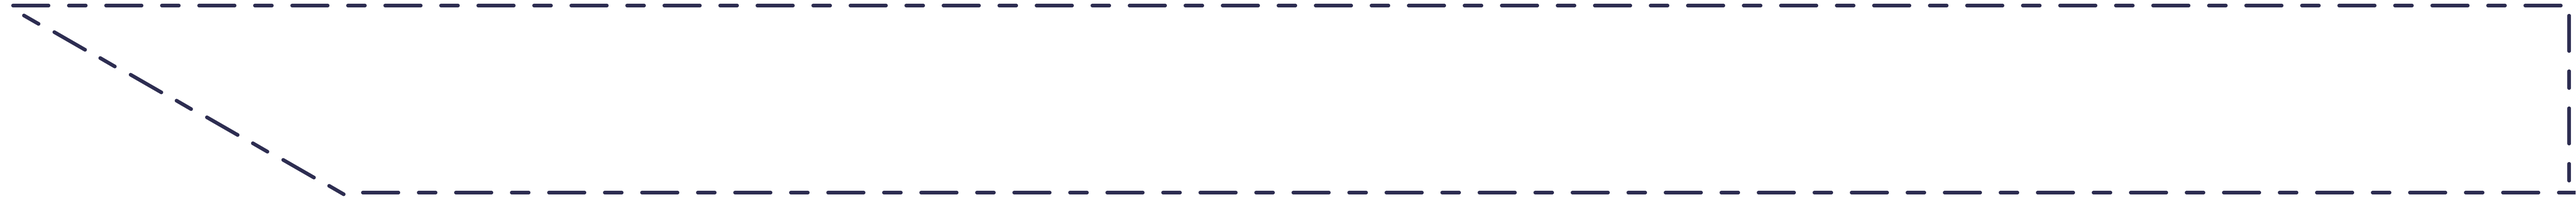
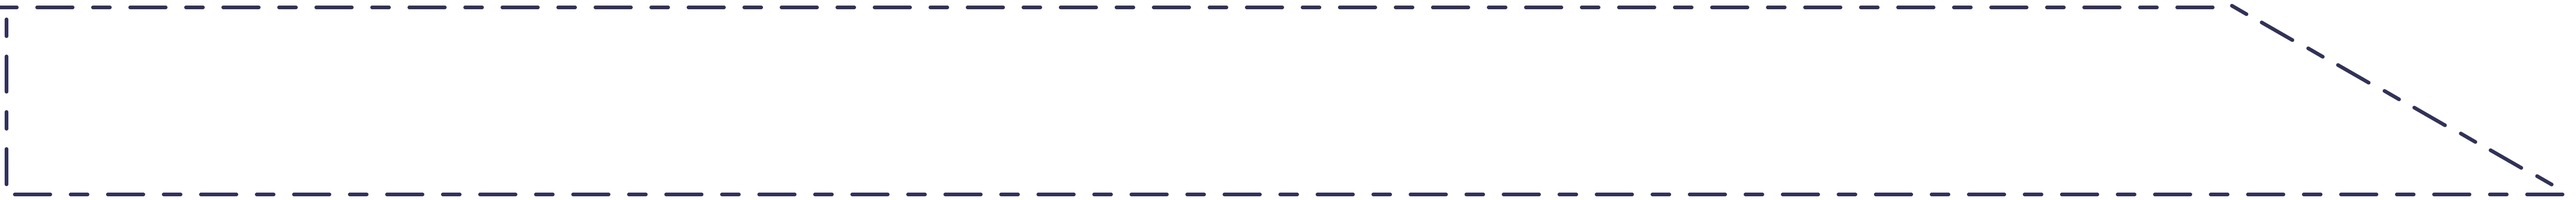
fix: style glass and responsive decoration (pita)

diff --git a/src/features/kabinet/sections/KabinetHeroSection.tsx b/src/features/kabinet/sections/KabinetHeroSection.tsx
@@ -72,7 +72,7 @@ export default function KabinetHeroSection({
 
   return (
     <div className="relative w-full">
-      <section className="relative w-full min-h-[60vh] aspect-4/3 md:min-h-screen lg:min-h-[130vh] xl:min-h-[110vh] 2xl:min-h-screen flex flex-col items-center justify-center text-white bg-[#F4E8FF] overflow-hidden">
+      <section className="relative w-full min-h-[60vh] aspect-4/3 md:min-h-screen lg:min-h-[130vh] xl:min-h-[110vh] 2xl:min-h-screen flex flex-col items-center justify-center text-white  overflow-hidden">
         <DesktopBackground images={images} activeIndex={currentImgIndex} />
         <MobileBackground />
 
@@ -131,7 +131,7 @@ export default function KabinetHeroSection({
         <div className="hidden md:block absolute bottom-0 left-0 w-full h-48 lg:h-64 bg-linear-to-t from-white via-white/20 to-transparent z-0" />
       </section>
 
-      <div className="absolute -bottom-4 md:-bottom-10 w-full z-10 translate-y-1/2 h-100">
+      <div className="absolute top-full  w-full z-10 h-100">
         <Pita pitaGradient={colorMap.pita ?? ''} />
       </div>
     </div>

diff --git a/src/features/kabinet/sections/ProkerSection.tsx b/src/features/kabinet/sections/ProkerSection.tsx
@@ -12,7 +12,7 @@ interface ProkerSectionProps {
 export default function ProkerSection({ data, colorMap }: ProkerSectionProps) {
   return (
     <div className="relative w-full">
-      <section className="relative w-full md:min-h-250 flex flex-col items-center py-24 overflow-hidden bg-[#F4E8FF]">
+      <section className="relative w-full md:min-h-250 flex flex-col items-center py-24 overflow-hidden ">
         {/* ornamen kiri */}
         <div className="absolute -left-110 md:-left-100 top-1/2 -translate-y-1/2 w-150 h-125 md:w-200 md:h-150 z-0 opacity-40">
           <div className="w-full h-full rounded-full blur-[60px] md:blur-[120px] absolute" style={{backgroundColor: colorMap.ornament}} />
@@ -38,7 +38,7 @@ export default function ProkerSection({ data, colorMap }: ProkerSectionProps) {
         </div>
       </section>
 
-      <div className="absolute bottom-4 md:bottom-14 w-full z-10 translate-y-1/2 -scale-x-100">
+      <div className="absolute top-full w-full z-10 -scale-x-100">
         <Pita pitaGradient={colorMap.pita ?? ''} />
       </div>
     </div>

diff --git a/src/components/layout/ShellLayer.tsx b/src/components/layout/ShellLayer.tsx
@@ -1,10 +1,37 @@
-// components/layout/ShellLayer.tsx
-import { cn } from "@/lib/utils/cn";
 import React from "react";
+import { cn } from "@/lib/utils";
 
-export function ShellLayer({ children, className }: { children: React.ReactNode, className?: string }) {
+type ShellLayerProps = {
+  children: React.ReactNode;
+  className?: string;
+
+  /**
+   * Background color as a CSS value.
+   * Examples: "#fff", "rgb(0 0 0)", "var(--bg)", "hsl(var(--background))"
+   */
+  backgroundColor?: string;
+
+  /**
+   * Escape hatch for additional inline styles.
+   * Applied after backgroundColor.
+   */
+  style?: React.CSSProperties;
+};
+
+export function ShellLayer({
+  children,
+  className,
+  backgroundColor,
+  style,
+}: ShellLayerProps) {
   return (
-    <div className={cn("relative isolate w-full overflow-x-clip", className)}>
+    <div
+      className={cn("relative isolate w-full overflow-x-clip", className)}
+      style={{
+        ...(backgroundColor ? { backgroundColor } : null),
+        ...style,
+      }}
+    >
       {children}
     </div>
   );

diff --git a/src/features/kabinet/components/KabinetOrnaments.tsx b/src/features/kabinet/components/KabinetOrnaments.tsx
@@ -171,15 +171,15 @@ export function Pita({pitaGradient}:{pitaGradient: string}) {
         maskSrc="/assets/kabinet/mask-pita.png"
         gradientVar={pitaGradient}
         innerHeight="h-40"
-        imageScale="scale-y-110 -translate-x-5 rotate-z-180 rotate-y-180"
-        className="w-screen aspect-4/3 absolute scale-105 h-40 -rotate-5"
+        imageScale="w-screen aspect-4/3 absolute scale-112 h-40"
+        className="w-screen aspect-4/3 absolute scale-105 h-40 -rotate-7"
       />
       <DynamicAsset
         imageSrc="/assets/kabinet/pita.png"
         maskSrc="/assets/kabinet/mask-pita.png"
         gradientVar={pitaGradient}
         innerHeight="h-40"
-        imageScale="scale-y-110 -translate-x-7 rotate-z-180 rotate-y-180"
+        imageScale="w-screen aspect-4/3 absolute translate-x-4 scale-112 h-40"
         className="w-screen aspect-4/3 absolute scale-105 h-40 rotate-7 rotate-y-180"
       />
     </>

diff --git a/src/features/kabinet/sections/FilosofiSection.tsx b/src/features/kabinet/sections/FilosofiSection.tsx
@@ -40,7 +40,7 @@ export default function FilosofiSection({ data, ColorMap: colorMap, kabinet }: F
 
   return (
     <div className="relative w-full">
-      <section className="w-full bg-[#F4E8FF] min-h-screen flex items-center justify-center py-20 px-10">
+      <section className="w-full  min-h-screen flex items-center justify-center py-20 px-10">
         <DynamicAsset 
           maskSrc="/assets/kabinet/filosofi-bg.webp" 
           gradientVar={colorMap.filosofiBackground ?? ''} 
@@ -83,7 +83,7 @@ export default function FilosofiSection({ data, ColorMap: colorMap, kabinet }: F
         </div>
       </section>
 
-      <div className="absolute -bottom-4 md:-bottom-10 w-full z-10 translate-y-1/2 -scale-x-100">
+      <div className="absolute top-full w-full z-10 -scale-x-100">
         <Pita pitaGradient={colorMap.pita ?? ''} /> 
       </div>
     </div>

diff --git a/src/features/kabinet/sections/DepartemenListSection.tsx b/src/features/kabinet/sections/DepartemenListSection.tsx
@@ -16,7 +16,7 @@ export default function DepartemenListSection({
   colorMap: ColorMap
 }) {
   return (
-    <section className="relative w-full min-h-screen bg-[#F4E8FF] flex flex-col items-center py-20 pb-185 lg:pb-135 -mb-175 lg:-mb-125 overflow-hidden">
+    <section className="relative w-full min-h-screen  flex flex-col items-center py-20 pb-185 lg:pb-135 -mb-175 lg:-mb-125 overflow-hidden">
       <div className="absolute right-30 md:right-20 bottom-[40%] md:top-[22%] lg:top-[-15%] w-[700vw] md:w-[400vw] z-0">
         <div className="w-full translate-x-[43%] -rotate-240 md:rotate-0">
           <Ornament5 gradient={colorMap.ornament5 ?? ''} />

diff --git a/src/features/kabinet/sections/StaffSection.tsx b/src/features/kabinet/sections/StaffSection.tsx
@@ -32,7 +32,7 @@ export default function StaffSection({ data, colorMap }: StaffSectionProps) {
   const hasSekben = !!sekben;
 
   return (
-    <section className="relative w-full min-h-screen py-32 flex flex-col items-center overflow-hidden bg-[#F4E8FF] pb-185 lg:pb-135 -mb-175 lg:-mb-125">
+    <section className="relative w-full min-h-screen py-32 flex flex-col items-center overflow-hidden  pb-185 lg:pb-135 -mb-175 lg:-mb-125">
       {/* ORNAMENTS */}
       <div className="absolute right-30 md:right-20 bottom-[30%] md:top-[12%] lg:top-[0%] w-[700vw] md:w-[400vw] z-0">
         <div className="w-full translate-x-[43%] -rotate-235 md:rotate-0">

diff --git a/src/features/beranda/components/spotify-carousel.tsx b/src/features/beranda/components/spotify-carousel.tsx
@@ -53,10 +53,12 @@ const Slide = React.memo(function Slide(
 /* ======================
  * MAIN CAROUSEL
  * ====================== */
+// eslint-disable-next-line @typescript-eslint/no-explicit-any
 export default function SpotifyCarousel({ episodes, error, isLoading }: { episodes?: Episode[], error?: any, isLoading?: boolean }) {
   const [activeIndex, setActiveIndex] = useState(0)
   const activeEpisode = episodes?.[activeIndex]
 
+  // eslint-disable-next-line @typescript-eslint/no-explicit-any
   const ref = useRef<any>(null)
   const { w, h } = useResponsiveCarousel()
 

diff --git a/src/features/kabinet/sections/IntiHimpunanSection.tsx b/src/features/kabinet/sections/IntiHimpunanSection.tsx
@@ -14,7 +14,7 @@ export default function IntiHimpunanSection({ data, colorMap }: SectionProps) {
   if (!data) return null;
 
   return (
-    <section className="relative w-full aspect-square md:aspect-auto bg-[#F4E8FF] flex flex-col items-center py-24 overflow-hidden">
+    <section className="relative w-full aspect-square md:aspect-auto  flex flex-col items-center py-24 overflow-hidden">
       <div className="relative z-10 flex flex-row items-center gap-4 sm:mb-20 md:mb-0 md:mt-20">
         <div className="relative w-14 h-14">
           <Image

diff --git a/src/features/kabinet/components/VisiMisiAccordion.tsx b/src/features/kabinet/components/VisiMisiAccordion.tsx
@@ -28,7 +28,7 @@ export default function VisiMisiAccordion({ visi, misi, visiMisiGradient, visiMi
           <AccordionItem
             key={id}
             value={id}
-            className={cn("border-3 rounded-2xl bg-[#F4E8FF]/80 relative group border-b-3", visiMisiBorder)} // Menjaga konsistensi border shadcn
+            className={cn("border-3 rounded-2xl /80 relative group border-b-3", visiMisiBorder)} // Menjaga konsistensi border shadcn
           >
             <AccordionTrigger
               hasChevron={false}

diff --git a/src/components/ui/Glass.tsx b/src/components/ui/Glass.tsx
@@ -193,10 +193,10 @@ export const useLiquidSurface = <T extends HTMLElement = HTMLDivElement>({
 
 const THEME: Record<string, LiquidGlassProps> = {
   soft: {
-    className: 'bg-transparent hover:bg-accent/40 rounded-2xl'
+    className: 'bg-transparent rounded-2xl'
   },
   medium: {
-    className: 'bg-white/50 hover:bg-accent/30 p-1 md:p-3 rounded-2xl'
+    className: 'bg-white/50 p-1 md:p-3 rounded-2xl'
   },
   hard: {
     className: 'bg-white/50 md:bg-[#101D2F]/50 rounded-2xl'

diff --git a/src/features/kabinet/sections/DepartemenHeroSection.tsx b/src/features/kabinet/sections/DepartemenHeroSection.tsx
@@ -86,7 +86,7 @@ export default function DepartemenHeroSection({
         </div>
       </section>
 
-      <div className="absolute -bottom-4 md:-bottom-4 w-full z-10 translate-y-1/2">
+      <div className="absolute top-full w-full z-10">
         <Pita pitaGradient={colorMap.pita ?? ''} />
       </div>
     </div>
